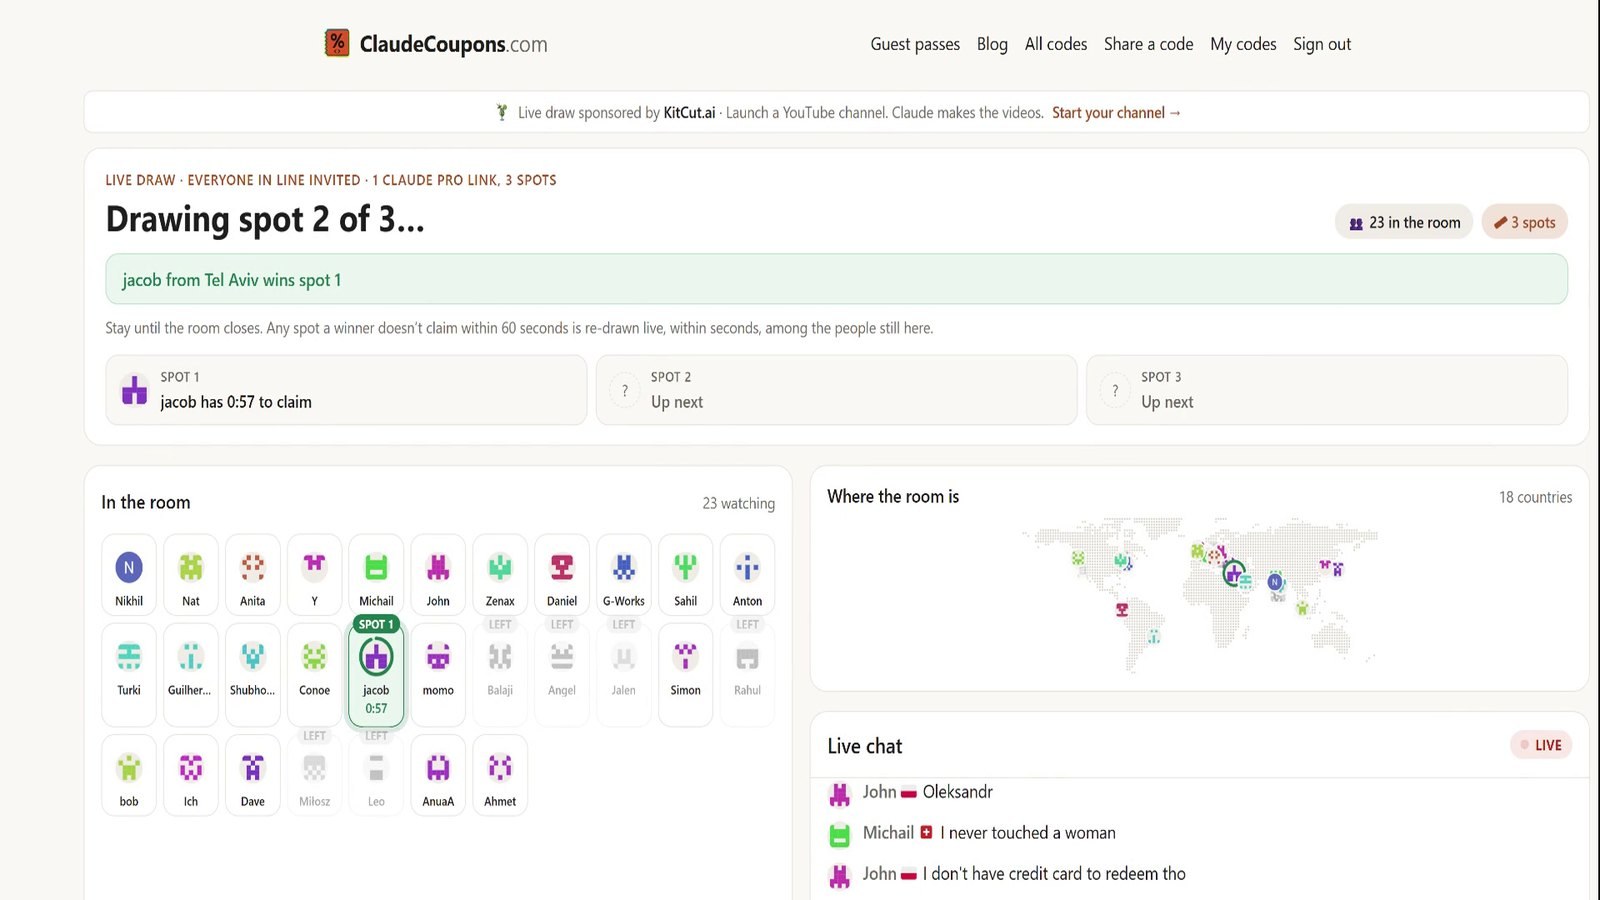
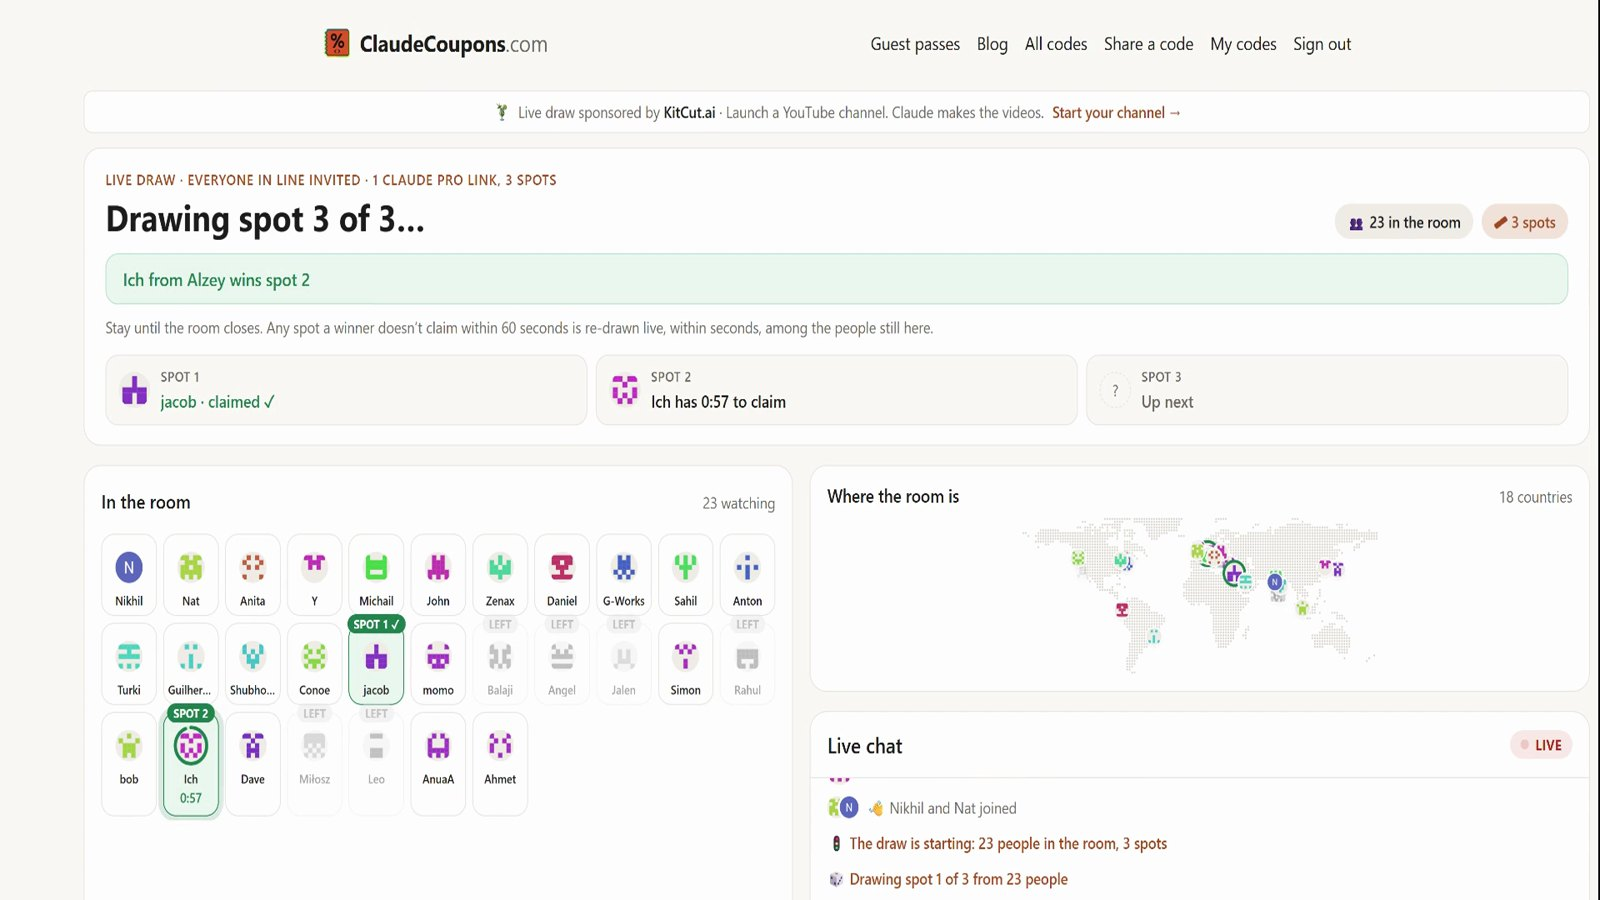
Blog post: a mid-draw frame with clean chat. City names from Cloudflare are read as UTF-8, so São Paulo no longer shows as SÃ£o Paulo
Claude-Session: https://claude.ai/code/session_01SAYrwhpBp2eJhBFfaTu1X2

diff --git a/src/lib/geo.ts b/src/lib/geo.ts
@@ -22,6 +22,21 @@ export interface Geo {
 // Edge geo strings are short. This only bounds a forged header from bloating a row.
 const MAX_LENGTH = 120;
 
+/**
+ * Cloudflare sends a city like São Paulo as raw UTF-8 bytes, and a header is read as Latin-1,
+ * so it arrives as "SÃ£o Paulo". Read those bytes again as UTF-8; a name that doesn't decode
+ * cleanly (or was plain ASCII all along) is left exactly as it was.
+ */
+export function repairUtf8(value: string): string {
+  if (!/[-ÿ]/.test(value) || /[^-ÿ]/.test(value)) return value;
+  const bytes = Uint8Array.from(value, (c) => c.charCodeAt(0));
+  try {
+    return new TextDecoder("utf-8", { fatal: true }).decode(bytes);
+  } catch {
+    return value;
+  }
+}
+
 function read(headers: Headers, ...names: string[]): string | undefined {
   for (const name of names) {
     const raw = headers.get(name);
@@ -34,7 +49,7 @@ function read(headers: Headers, ...names: string[]): string | undefined {
     } catch {
       // A malformed escape is not worth losing the header over.
     }
-    value = value.trim();
+    value = repairUtf8(value).trim();
     // Cloudflare answers XX for an address it cannot place, and T1 for Tor.
     if (!value || value === "XX" || value === "T1") continue;
     return value.slice(0, MAX_LENGTH);

diff --git a/src/lib/friends.ts b/src/lib/friends.ts
@@ -16,6 +16,13 @@ export const FRIENDS: Friend[] = [
       "Launch a YouTube channel and Claude makes the videos. Pick a niche, get finished episodes (script, animation, voice-over, music) with titles and thumbnails, published to your channel on a schedule.",
   },
   {
+    name: "VideoMakers",
+    url: "https://videomakers.io/",
+    tag: "AI video",
+    blurb:
+      "A directory of AI video creators from X and Threads: see what each one makes and the tools they use, then hire one for your project.",
+  },
+  {
     name: "InstaShare",
     url: "https://instashare.to",
     tag: "Developer tools",
@@ -25,9 +32,9 @@ export const FRIENDS: Friend[] = [
   {
     name: "BuildersHQ",
     url: "https://buildershq.net",
-    tag: "Developer tools",
+    tag: "Data MCP",
     blurb:
-      "A VS Code extension that gives a distributed team a shared sense of presence - who is online, who is shipping, what actually moved today.",
+      "One MCP server for the numbers builders look up: keyword volumes, ideas and ad forecasts, your sites on Google Search Console and Bing, site traffic, and YouTube and app store stats, for Claude or any assistant that speaks MCP.",
   },
   {
     name: "Instafill.ai",

diff --git a/src/lib/blog.ts b/src/lib/blog.ts
@@ -783,8 +783,8 @@ const LIVE_GIVEAWAYS: BlogPost = {
         },
         {
           src: `${LIVE_IMG}/room-drawing.jpg`,
-          alt: "The giveaway mid-draw: spot 1 won by jacob from Tel Aviv with a claim timer, spot 2 being drawn",
-          caption: "Mid-draw: spot 1 is won and its winner has a minute to claim, spot 2 is being drawn.",
+          alt: "The giveaway mid-draw: spot 1 claimed by jacob, Ich from Alzey has won spot 2 with 57 seconds to claim, spot 3 up next",
+          caption: "Mid-draw: spot 1 is claimed, spot 2's winner has a minute to claim it, spot 3 is next.",
           width: 1600,
           height: 900,
           label: "From the recording",
